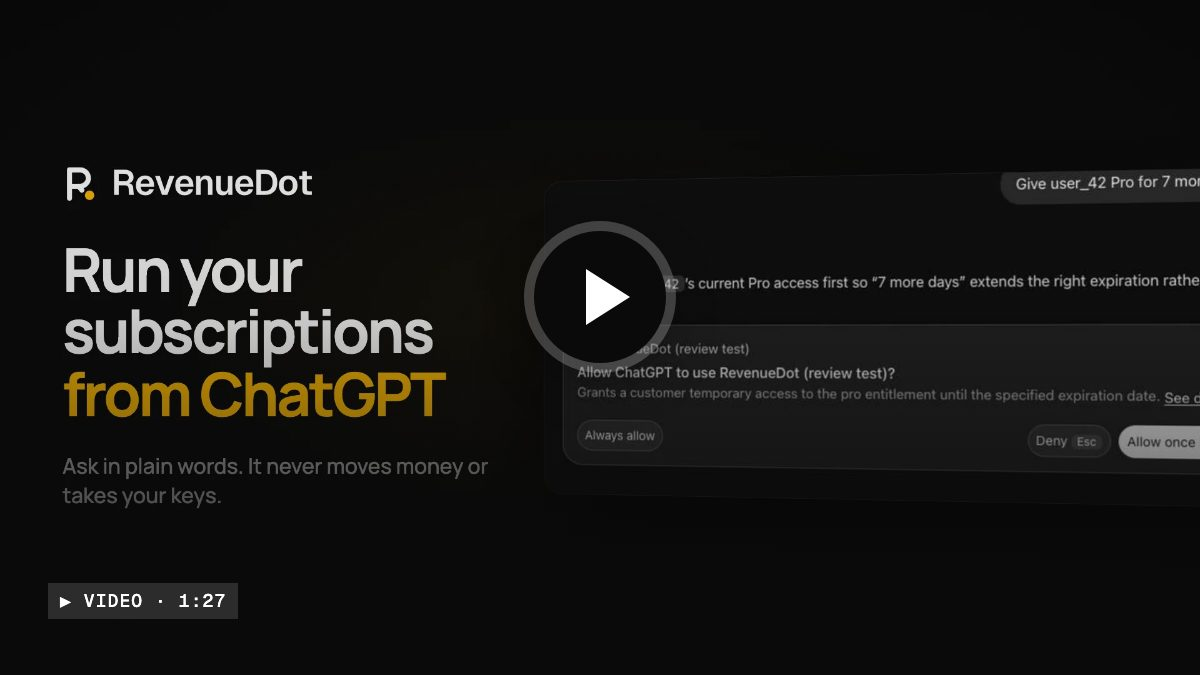
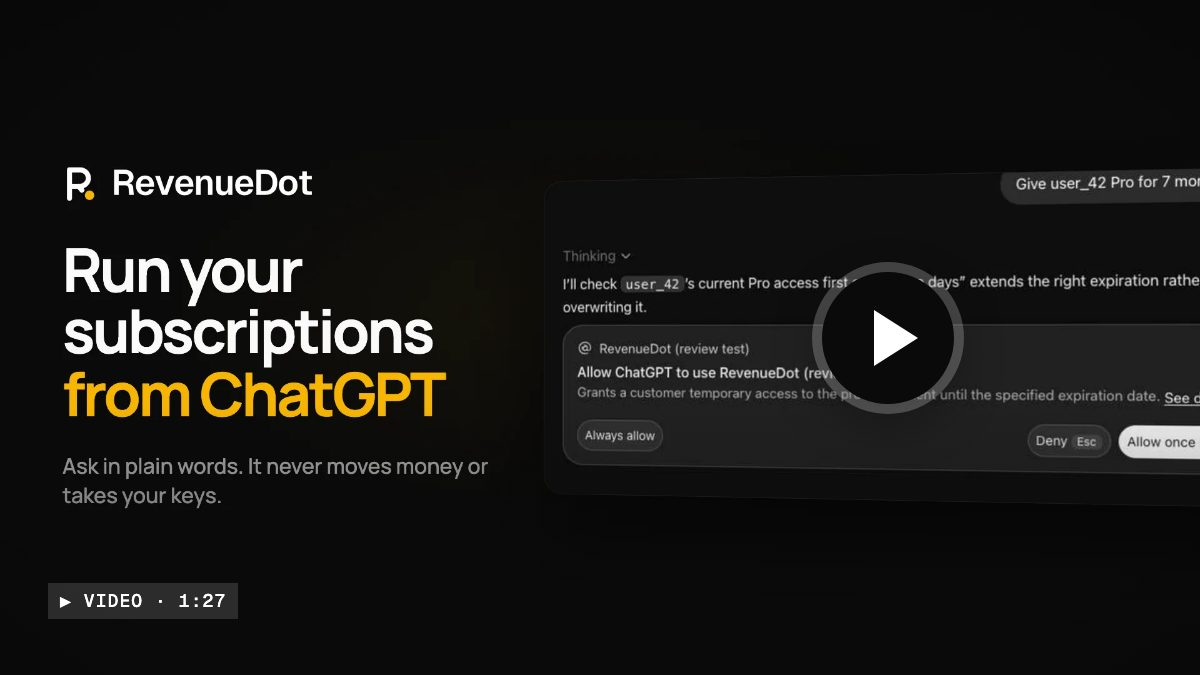
First-purchase tutorial: /watch page, MP4 redirect, poster, email cover; covers keep the poster's title clear

diff --git a/apps/server/src/mail/journeys.ts b/apps/server/src/mail/journeys.ts
@@ -25,7 +25,7 @@ export type VideoId = "first-purchase" | "connect-your-app" | "switch-from-reven
  * the video's page on revenuedot.app. Covers (1200×675 JPEG, play button and length drawn in) live in apps/site/public/email/.
  */
 export const VIDEOS: Record<VideoId, { title: string; length: string; slug: string; youtube?: string; ready: boolean }> = {
-  "first-purchase": { title: "Your first purchase in 5 minutes", length: "1:30", slug: "revenuedot-first-purchase", ready: false },
+  "first-purchase": { title: "Your first purchase in 5 minutes", length: "1:18", slug: "revenuedot-first-purchase", ready: true },
   "connect-your-app": { title: "Connect your app to RevenueDot", length: "1:30", slug: "revenuedot-connect-your-app", ready: false },
   "switch-from-revenuecat": { title: "Switch from RevenueCat without losing a renewal", length: "1:40", slug: "revenuedot-switch-from-revenuecat", ready: false },
   "paywalls-and-experiments": { title: "Build a paywall and test it", length: "1:30", slug: "revenuedot-paywalls-and-experiments", ready: false },
